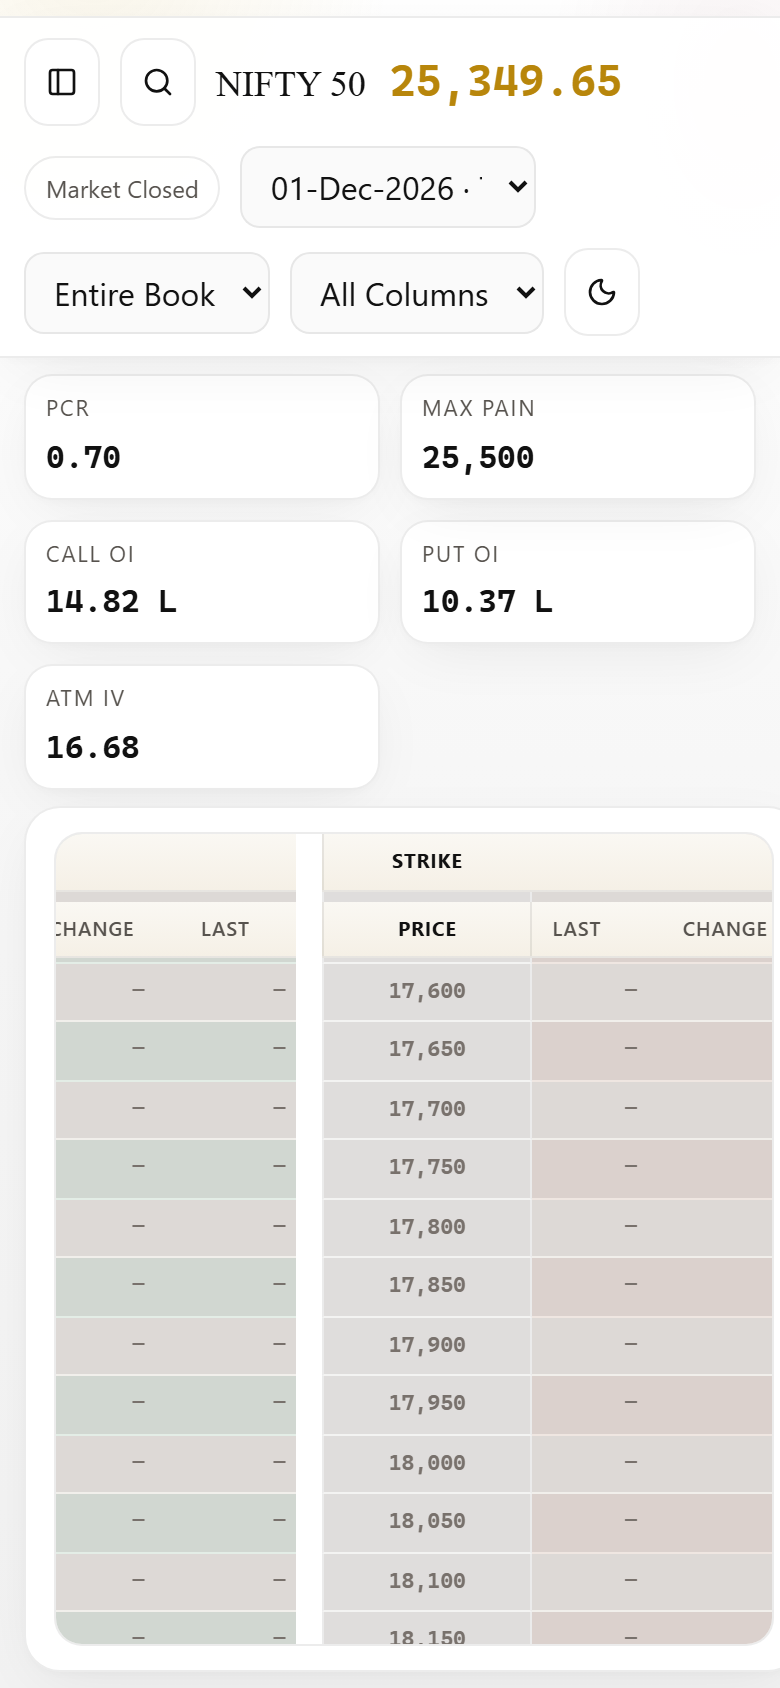
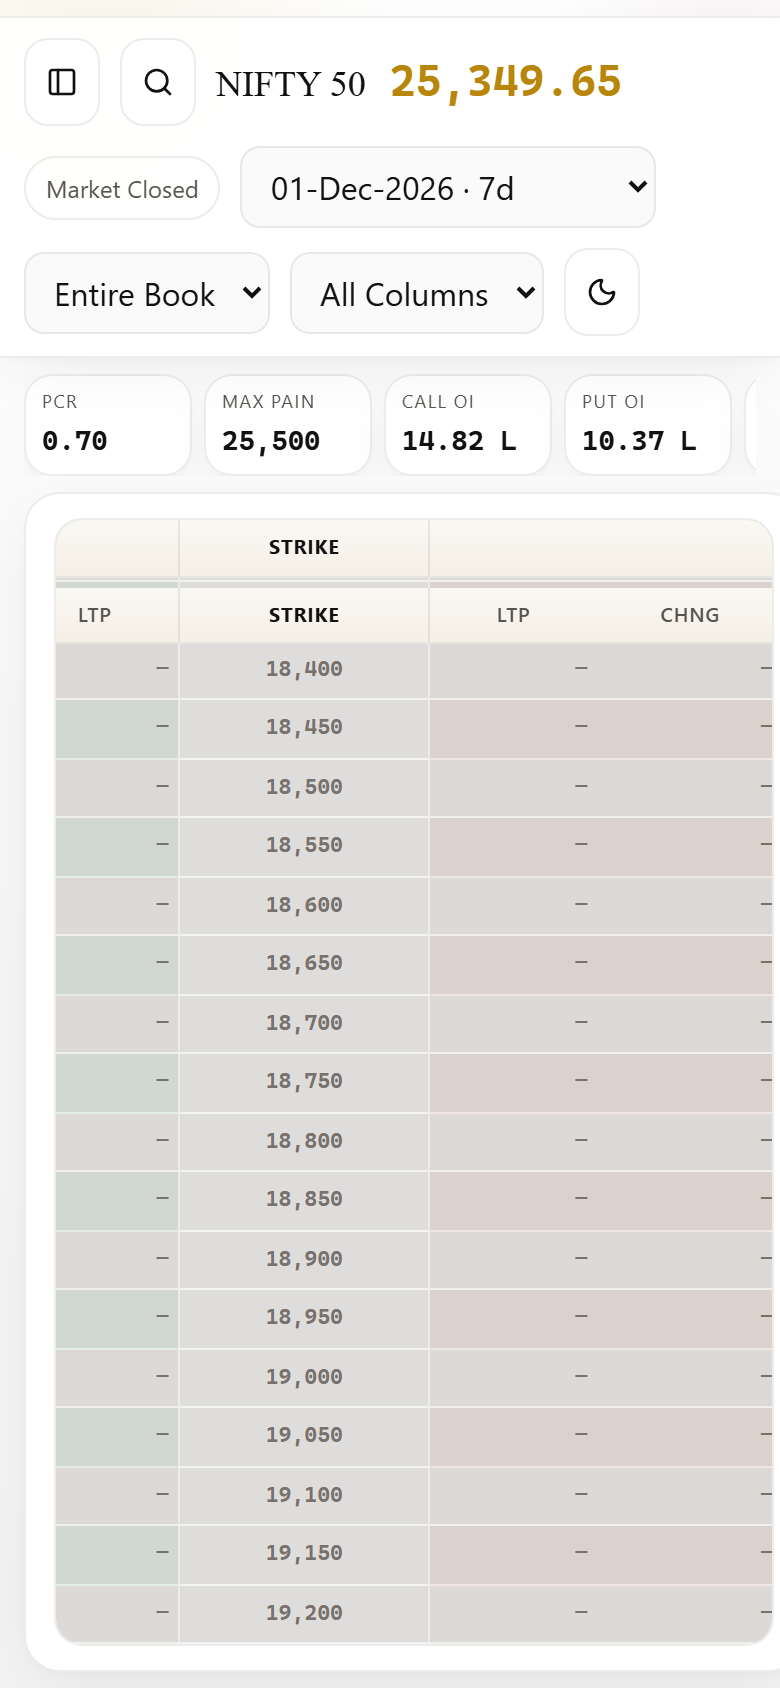
Name the chain columns the way the exchanges do, and fit the phone book on one screen.
Focus on a phone is OI and LTP around the strike, with the change under the price, matching a Zerodha or Groww chain.

diff --git a/web/src/app/globals.css b/web/src/app/globals.css
@@ -1680,6 +1680,10 @@ html.dark .is-itm {
   background: transparent;
 }
 
+.ltp-chng {
+  display: none;
+}
+
 @media (max-width: 700px) {
   .ticker,
   .analytics-row {
@@ -1696,13 +1700,79 @@ html.dark .is-itm {
   }
 
   .kpi-row {
-    display: grid;
-    grid-template-columns: 1fr 1fr;
-    overflow: visible;
+    display: flex;
+    flex-wrap: nowrap;
+    overflow-x: auto;
+    gap: 6px;
   }
 
   .kpi {
-    flex: none;
+    flex: 0 0 auto;
+    min-width: 84px;
+    padding: 6px 8px;
+  }
+
+  .kpi p {
+    font-size: 9px;
+  }
+
+  .kpi strong {
+    margin-top: 2px;
+    font-size: 14px;
+  }
+
+  .chain-table .strike-cell {
+    position: static;
+    left: auto;
+  }
+
+  .chain-table thead .strike-cell {
+    position: sticky;
+    top: 28px;
+    left: auto;
+  }
+
+  .chain-scroll[data-density="focus"] .chain-table {
     min-width: 0;
+    width: 100%;
+    table-layout: fixed;
+    font-size: 11px;
+  }
+
+  .chain-scroll[data-density="focus"] .col-volume,
+  .chain-scroll[data-density="focus"] .col-iv,
+  .chain-scroll[data-density="focus"] .col-chng {
+    display: none;
+  }
+
+  .chain-scroll[data-density="focus"] .ltp-chng {
+    display: block;
+    margin-top: 1px;
+    font-family: var(--font-data);
+    font-size: 10px;
+    font-weight: 600;
+    line-height: 1.1;
+  }
+
+  .chain-scroll[data-density="focus"] .quote-num {
+    font-weight: 650;
+  }
+
+  .chain-scroll[data-density="focus"] .strike-cell {
+    position: static;
+    left: auto;
+    min-width: 0;
+    width: 22%;
+  }
+
+  .chain-scroll[data-density="focus"] thead .strike-cell {
+    position: sticky;
+    top: 28px;
+    left: auto;
+  }
+
+  .chain-scroll[data-density="focus"] th,
+  .chain-scroll[data-density="focus"] td {
+    padding: 7px 3px;
   }
 }

diff --git a/web/src/components/option-chain-table.tsx b/web/src/components/option-chain-table.tsx
@@ -165,13 +165,13 @@ export function OptionChainTable({
           </tr>
           <tr>
             {callCols.map((key) => (
-              <th key={`ce-${key}`} className="ce-zone" title={columnHint(key)}>
+              <th key={`ce-${key}`} className={cn("ce-zone", `col-${key}`)} title={columnHint(key)}>
                 {columnLabel(key)}
               </th>
             ))}
-            <th className="strike-cell">Price</th>
+            <th className="strike-cell">Strike</th>
             {peCols.map((key) => (
-              <th key={`pe-${key}`} className="pe-zone" title={columnHint(key)}>
+              <th key={`pe-${key}`} className={cn("pe-zone", `col-${key}`)} title={columnHint(key)}>
                 {columnLabel(key)}
               </th>
             ))}
@@ -295,6 +295,7 @@ function SideCell({
       value={value}
       className={cn(
         side === "ce" ? "ce-zone" : "pe-zone",
+        `col-${field}`,
         "depth-cell",
         tone,
         itm && "is-itm",
@@ -305,7 +306,12 @@ function SideCell({
       {depth > 0 ? (
         <i className={cn("depth-bar", side === "ce" ? "call" : "put")} style={{ width: `${depth}%` }} />
       ) : null}
-      <span>{renderValue(field, value)}</span>
+      <span className="quote-num">{renderValue(field, value)}</span>
+      {field === "ltp" ? (
+        <span className={cn("ltp-chng", quote.change != null && quote.change < 0 ? "tone-down" : "tone-up")}>
+          {formatSigned(quote.change, 2)}
+        </span>
+      ) : null}
     </FlashCell>
   );
 }

diff --git a/web/src/lib/columns.ts b/web/src/lib/columns.ts
@@ -15,16 +15,16 @@ export type SideColumn = {
  * Last sits against the strike.
  */
 export const SIDE_COLUMNS: SideColumn[] = [
-  { key: "oi", label: "Open Interest", always: true, focus: true },
-  { key: "oiChg", label: "Interest Change" },
+  { key: "oi", label: "OI", always: true, focus: true },
+  { key: "oiChg", label: "Chng in OI" },
   { key: "volume", label: "Volume", always: true, focus: true },
   { key: "iv", label: "IV", always: true, focus: true },
-  { key: "bidQty", label: "Bid Quantity" },
+  { key: "bidQty", label: "Bid Qty" },
   { key: "bid", label: "Bid" },
   { key: "ask", label: "Ask" },
-  { key: "askQty", label: "Ask Quantity" },
-  { key: "chng", label: "Change", focus: true },
-  { key: "ltp", label: "Last", always: true, focus: true },
+  { key: "askQty", label: "Ask Qty" },
+  { key: "chng", label: "Chng", focus: true },
+  { key: "ltp", label: "LTP", always: true, focus: true },
 ];
 
 function quoteField(q: OptionQuote, key: ColumnKey): number | null {

diff --git a/web/src/components/quote-sheet.tsx b/web/src/components/quote-sheet.tsx
@@ -62,18 +62,18 @@ function QuoteCard({
   tone: "call" | "put";
 }) {
   const items = [
-    ["Last", formatPrice(quote.lastPrice)],
-    ["Change", formatSigned(quote.change, 2)],
+    ["LTP", formatPrice(quote.lastPrice)],
+    ["Chng", formatSigned(quote.change, 2)],
     ["IV", formatPrice(quote.iv)],
-    ["Open Interest", formatCompact(quote.oi)],
-    ["Interest Change", formatSigned(quote.oiChg, 0)],
+    ["OI", formatCompact(quote.oi)],
+    ["Chng in OI", formatSigned(quote.oiChg, 0)],
     ["Volume", formatCompact(quote.volume)],
     ["Bid", formatPrice(quote.bid)],
     ["Ask", formatPrice(quote.ask)],
   ] as const;
 
   const visible = items.filter(([, value]) => value !== "—");
-  const rows = visible.length > 0 ? visible : ([["Last", "—"]] as const);
+  const rows = visible.length > 0 ? visible : ([["LTP", "—"]] as const);
 
   return (
     <section className={`quote-card ${tone}`}>

diff --git a/web/e2e/desk.spec.ts b/web/e2e/desk.spec.ts
@@ -46,14 +46,14 @@ test("desk, density, volume shade, stream, and motion", async ({ page }, testInf
     const heads = [...document.querySelectorAll(".chain-table thead tr:nth-child(2) th")].map((th) =>
       th.textContent?.trim(),
     );
-    const strike = heads.indexOf("Price");
+    const strike = heads.indexOf("Strike");
     return {
       before: heads.slice(Math.max(0, strike - 2), strike),
       after: heads.slice(strike + 1, strike + 3),
     };
   });
-  expect(headerOrder.before).toEqual(["Change", "Last"]);
-  expect(headerOrder.after).toEqual(["Last", "Change"]);
+  expect(headerOrder.before).toEqual(["Chng", "LTP"]);
+  expect(headerOrder.after).toEqual(["LTP", "Chng"]);
 
   const zeroRows = page.locator('[data-volume="zero"]');
   await expect(zeroRows.first()).toBeVisible();
